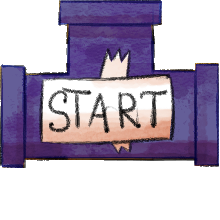
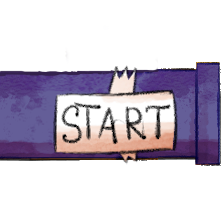
Fixed Broken Pipes not Checking if They're Correct Once Fixed and Changed Start Pipe to Match End

diff --git a/Assets/Minigames/Pipe Mania/Scripts/Pipe Controller.cs b/Assets/Minigames/Pipe Mania/Scripts/Pipe Controller.cs
@@ -57,10 +57,7 @@ public class PipeController : MonoBehaviour, IPointerClickHandler
 
         transform.Rotate(0, 0, Random.Range(0, 3) * 90);
 
-        if (broken == 0)
-        {
-            if (CorrectRotations.HasFlag(GetCorrectRotations((int)transform.eulerAngles.z))) solved = true;
-        }
+        if (broken == 0) CheckIfCorrect();
         else
         {
             Prefab = Instantiate(BrokenPrefab, transform);
@@ -87,7 +84,7 @@ public class PipeController : MonoBehaviour, IPointerClickHandler
             if (broken == 0)
             {
                 Destroy(Prefab);
-                if (CorrectRotations.HasFlag(GetCorrectRotations((int)transform.eulerAngles.z))) solved = true;
+                CheckIfCorrect();
             }
         }
         else
@@ -124,6 +121,21 @@ public class PipeController : MonoBehaviour, IPointerClickHandler
         }
     }
 
+    void CheckIfCorrect(int Direction)
+    {
+        if (CorrectRotations.HasFlag(GetCorrectRotations(Direction)))
+        {
+            solved = true;
+            transform.parent.parent.GetComponent<PipeLayout>().CheckPipes();
+        }
+        else solved = false;
+    }
+
+    void CheckIfCorrect()
+    {
+        CheckIfCorrect(Mathf.RoundToInt(transform.eulerAngles.z));
+    }
+
     int RotationAmount = 6;
     IEnumerator RotatePipe()
     {
@@ -137,11 +149,6 @@ public class PipeController : MonoBehaviour, IPointerClickHandler
             yield return new WaitForSeconds(0.001f); // Fastest possible
         }
 
-        if (CorrectRotations.HasFlag(GetCorrectRotations(Mathf.RoundToInt(transform.eulerAngles.z))))
-        {
-            solved = true;
-            transform.parent.parent.GetComponent<PipeLayout>().CheckPipes();
-        }
-        else solved = false;
+        CheckIfCorrect();
     }
 }
